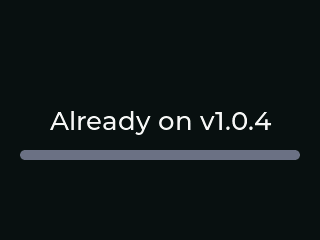
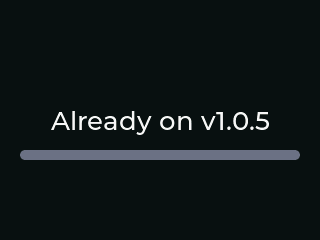
Release v1.0.5
Bumps FIRMWARE_VERSION for the GitHub release, and regenerates the screenshot
scenes that render it (splash, about) so the committed images match what the
panel will show.

Cut so the OTA updater has a real hop to be tested against: v1.0.4 was
published minutes earlier and the device compares the release tag_name against
FIRMWARE_VERSION verbatim, so a device on 1.0.4 now sees an update rather than
"No update available".

The one change since v1.0.4:

  Two hold thresholds. A press becomes a Hold at 500 ms instead of 1 s, so
  holding an arrow to jog no longer makes the operator wait out dead time
  before the carriage moves. Every gesture that takes something away - clear
  both stops, clear one stop, zero the DRO - moved to a second event at 1 s
  and kept the dwell it already had, so nothing destructive got easier to
  trigger. A press released between the two does nothing, and the STOPS
  confirm bar now fills across exactly the interval that earns the clear.

659 native test cases, all passing. 51 screenshot scenes unpainted=0.
esp32dev_usb RAM 35.0%, Flash 77.0%.

Claude-Session: https://claude.ai/code/session_01JPykcVkHfzPiCx2wJda627

Changed region(s): [[0.5, 0.4667, 0.8438, 0.5542], [0.1562, 0.4667, 0.4688, 0.5542]]

diff --git a/include/version.h b/include/version.h
@@ -4,7 +4,7 @@
 // Firmware version. Must match the git tag used for the GitHub release
 // (leading "v"), because the OTA version check compares this string against the
 // release's `tag_name` verbatim. Bump this before publishing a new release.
-#define FIRMWARE_VERSION "v1.0.4"
+#define FIRMWARE_VERSION "v1.0.5"
 
 // ---------------------------------------------------------------------------
 // BUILD PROVENANCE (GitHub issue #4)
